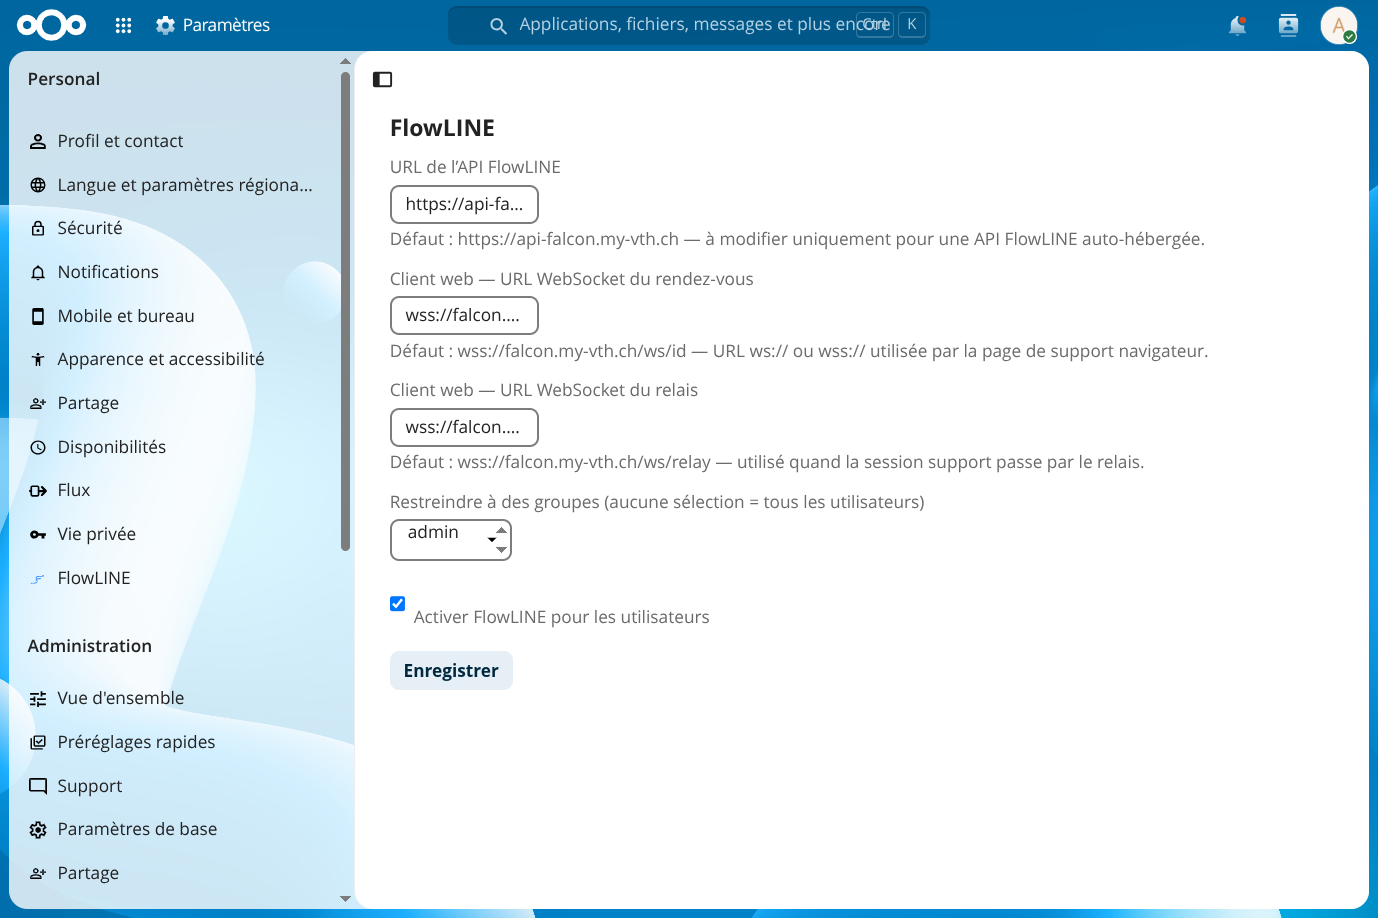
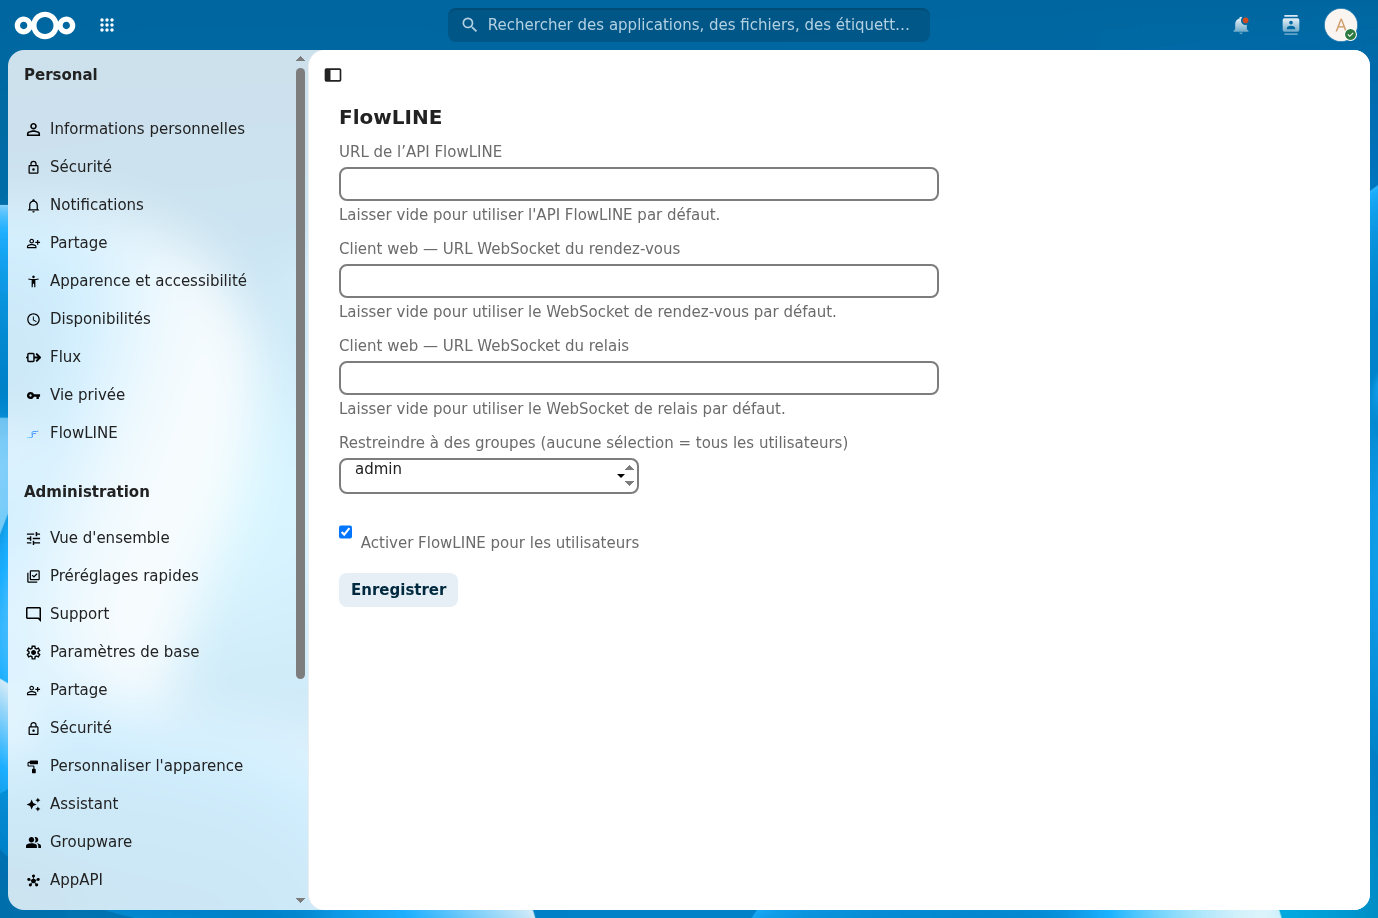
ui: champs URL sans placeholder + nouvelle capture store (0.6.5)

diff --git a/templates/settings/admin.php b/templates/settings/admin.php
@@ -23,21 +23,21 @@ $status = (string)$_['status'];
 
 		<p>
 			<label for="flowline-api-url"><?php p($l->t('FlowLINE API URL')); ?></label><br>
-			<input type="text" class="input-text" style="width: 100%; max-width: 40rem;" id="flowline-api-url" name="apiUrl" value="<?php p((string)$_['apiUrl']); ?>" placeholder="https://api.example.com">
+			<input type="text" class="input-text" style="width: 100%; max-width: 40rem;" id="flowline-api-url" name="apiUrl" value="<?php p((string)$_['apiUrl']); ?>">
 			<br>
 			<span class="settings-hint"><?php p($l->t('Leave empty to use the default FlowLINE API.')); ?></span>
 		</p>
 
 		<p>
 			<label for="flowline-web-rdv-url"><?php p($l->t('Web client — rendezvous WebSocket URL')); ?></label><br>
-			<input type="text" class="input-text" style="width: 100%; max-width: 40rem;" id="flowline-web-rdv-url" name="webRdvUrl" value="<?php p((string)$_['webRdvUrl']); ?>" placeholder="wss://ws.example.com/ws/id">
+			<input type="text" class="input-text" style="width: 100%; max-width: 40rem;" id="flowline-web-rdv-url" name="webRdvUrl" value="<?php p((string)$_['webRdvUrl']); ?>">
 			<br>
 			<span class="settings-hint"><?php p($l->t('Leave empty to use the default rendezvous WebSocket.')); ?></span>
 		</p>
 
 		<p>
 			<label for="flowline-web-relay-url"><?php p($l->t('Web client — relay WebSocket URL')); ?></label><br>
-			<input type="text" class="input-text" style="width: 100%; max-width: 40rem;" id="flowline-web-relay-url" name="webRelayUrl" value="<?php p((string)$_['webRelayUrl']); ?>" placeholder="wss://ws.example.com/ws/relay">
+			<input type="text" class="input-text" style="width: 100%; max-width: 40rem;" id="flowline-web-relay-url" name="webRelayUrl" value="<?php p((string)$_['webRelayUrl']); ?>">
 			<br>
 			<span class="settings-hint"><?php p($l->t('Leave empty to use the default relay WebSocket.')); ?></span>
 		</p>

diff --git a/CHANGELOG.md b/CHANGELOG.md
@@ -10,6 +10,13 @@ and this project adheres to [Semantic Versioning](https://semver.org/spec/v2.0.0
 
 ## [Unreleased]
 
+## 0.6.5 — 2026-10-20
+
+### Changed
+
+- Réglages admin : champs d'URL vides par défaut, sans placeholder ni URL en dur ;
+  la capture de la fiche store est mise à jour.
+
 ## 0.6.4 — 2026-10-20
 
 ### Changed
